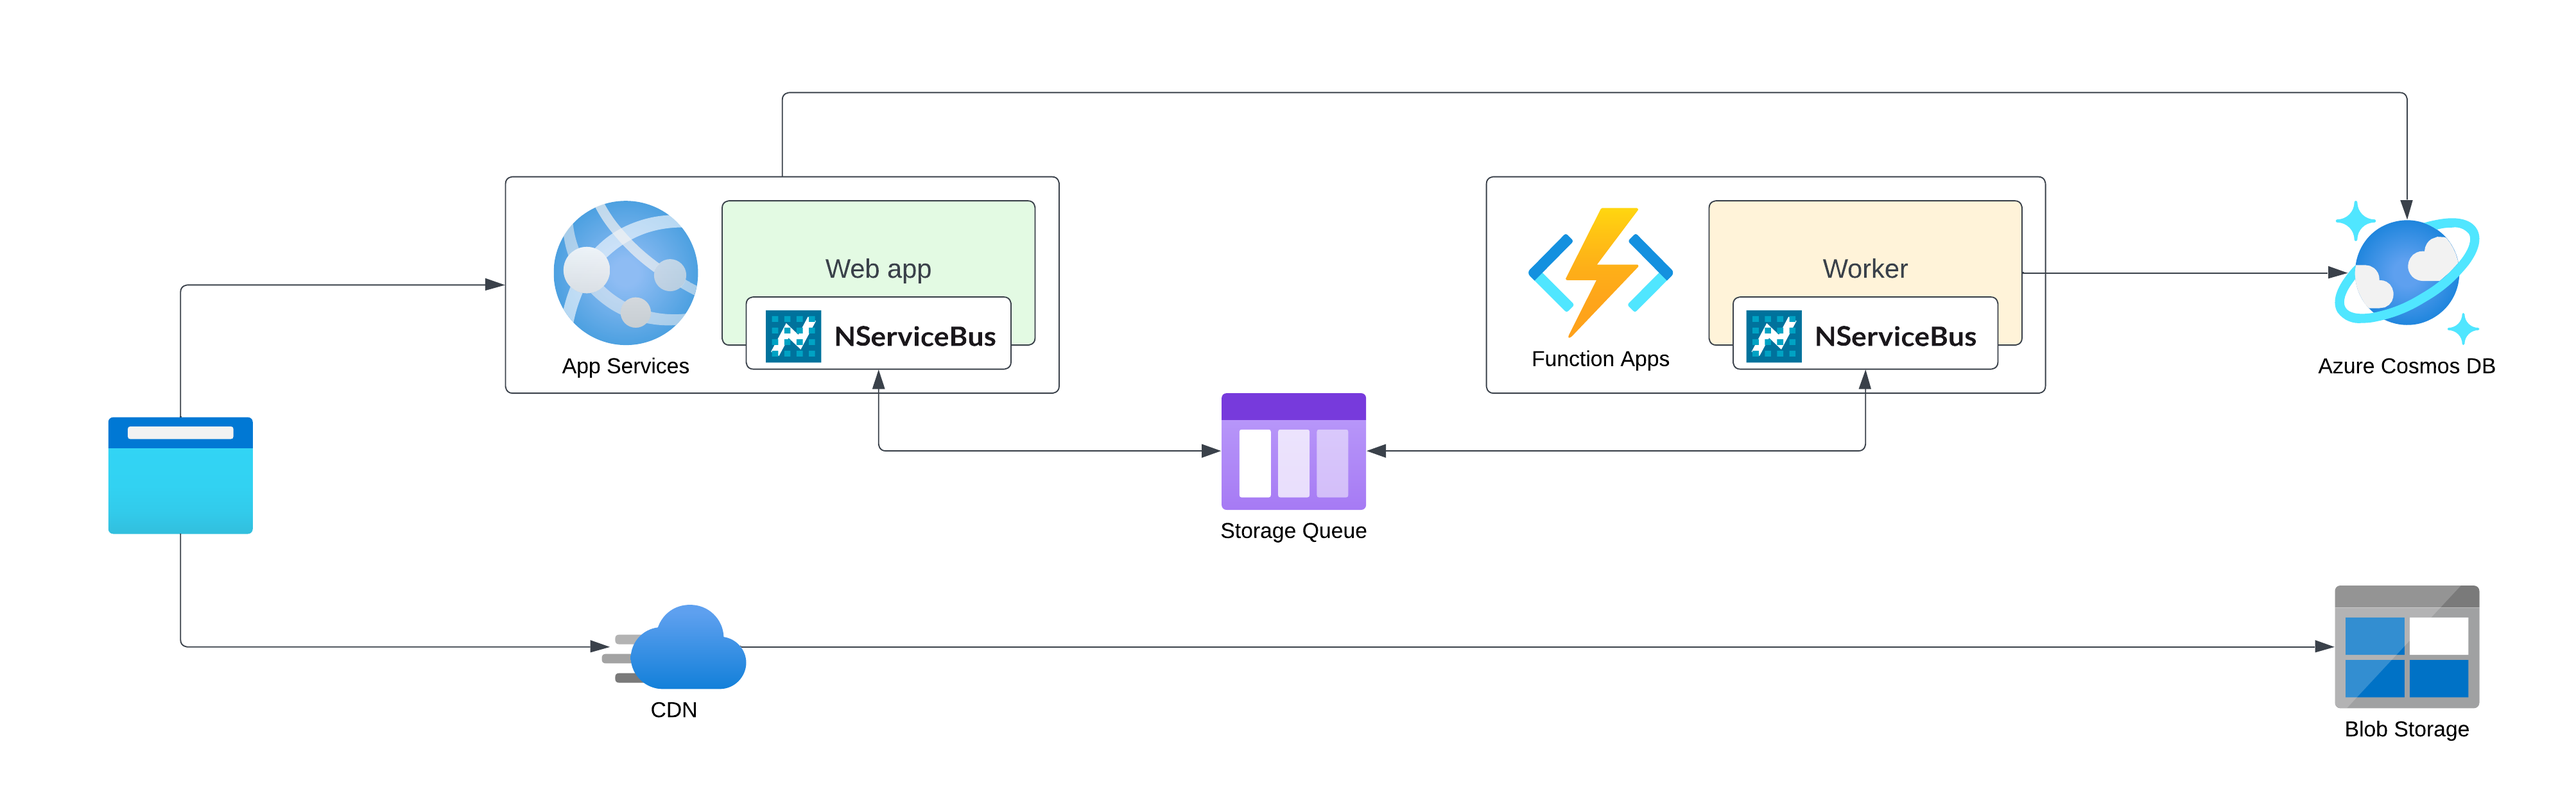
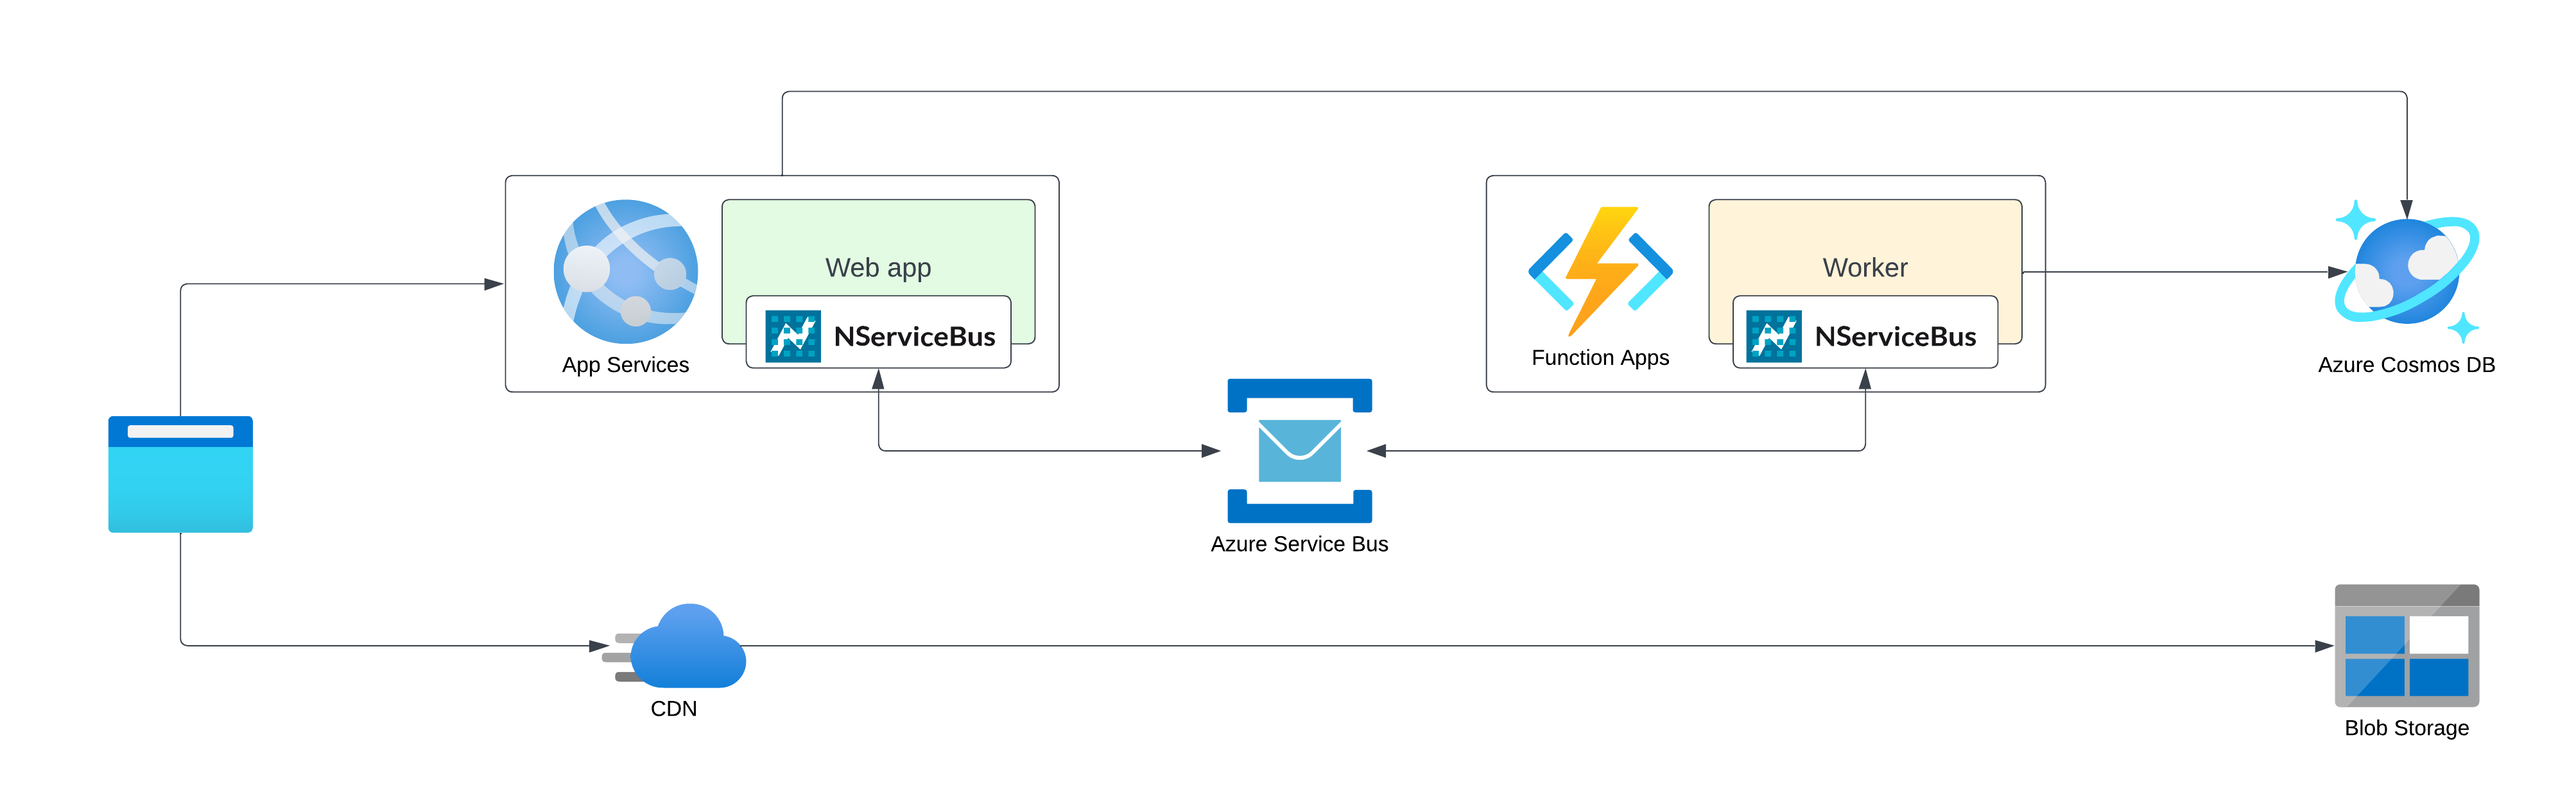
more review suggestions

diff --git a/architecture/azure/index.md b/architecture/azure/index.md
@@ -46,6 +46,7 @@ The Particular Service Platform makes systems follow the [ten design principles 
 * [Coordination is minimized](https://learn.microsoft.com/en-us/azure/architecture/guide/design-principles/minimize-coordination) between services by [messaging](/architecture/messaging.md). See [this talk](https://www.youtube.com/watch?v=0TYbHVc2yWI) for more information.
 * [Scaling out](https://learn.microsoft.com/en-us/azure/architecture/guide/design-principles/scale-out) is achieved by various methods such as [asynchronous message-based communication](https://learn.microsoft.com/en-us/dotnet/architecture/microservices/architect-microservice-container-applications/asynchronous-message-based-communication) and [competing consumers](/nservicebus/scaling.md#scaling-out-to-multiple-nodes-competing-consumers).
 * [Partitioning](https://learn.microsoft.com/en-us/azure/architecture/guide/design-principles/partition) is achieved by decomposing and offloading resource-intensive processes using [workflows](/architecture/workflows.md) and the integration of the Particular Service Platform with technology-specific partitioning capabilities.
+* [Partitioning](https://learn.microsoft.com/en-us/azure/architecture/guide/design-principles/partition) is achieved by making [suitable technology choices](/architecture/azure/#technology-choices). NServiceBus directly supports and integrates with a range of Azure services that can leverage partitioning for large-scale systems.
 * [Operations](https://learn.microsoft.com/en-us/azure/architecture/guide/design-principles/design-for-operations) tooling for monitoring production environments and error recovery is provided by [ServicePulse](/servicepulse/) and [OpenTelemetry](/nservicebus/operations/opentelemetry.md).
 * [Managed services](https://learn.microsoft.com/en-us/azure/architecture/guide/design-principles/managed-services) such as Azure App Service, Azure SQL, and Azure Cosmos DB are fully supported by the Particular Service Platform. See [technology choices](#technology-choices).
 * [A wide variety of data stores](https://learn.microsoft.com/en-us/azure/architecture/guide/design-principles/use-best-data-store) are supported by the Particular Service Platform as [persistence choices](/persistence).

diff --git a/architecture/azure/web-queue-worker.md b/architecture/azure/web-queue-worker.md
@@ -24,7 +24,7 @@ The Azure Architecture Center describes the [web-queue-worker architecture style
 
 ### Technology choices
 
-The web-queue-worker architecture style can make use of Azure's managed services like [Azure App Services](/architecture/azure/compute.md#platform-as-a-service-azure-app-services) and [Azure Functions](/architecture/azure/compute.md#platform-as-a-service-azure-app-services) and [Cosmos DB](/architecture/azure/data-stores.md#azure-cosmos-db). [Azure Service Bus](/architecture/azure/messaging.md#azure-service-bus) is powerful messaging technology choice, in simple scenarios [Azure Queue Storage](/architecture/azure/messaging.md#azure-queue-storage) might provide a more lightweight and cheaper option. When relying on a Infrastructure-as-a-Service model, web-queue-worker architectures might provide fewer benefits.
+The web-queue-worker architecture style can make use of Azure's managed services like [Azure App Services](/architecture/azure/compute.md#platform-as-a-service-azure-app-services), [Azure Static Web Apps](https://azure.microsoft.com/en-us/products/app-service/static), [Azure Functions](/architecture/azure/compute.md#platform-as-a-service-azure-app-services), and [Cosmos DB](/architecture/azure/data-stores.md#azure-cosmos-db). [Azure Service Bus](/architecture/azure/messaging.md#azure-service-bus) is powerful messaging technology choice. When relying on a Infrastructure-as-a-Service model, web-queue-worker architectures might provide fewer benefits.
 
 ## Related content
 

diff --git a/architecture/azure/compute.md b/architecture/azure/compute.md
@@ -38,12 +38,6 @@ In serverless (also referred to as "Functions as a service (FaaS)") models, code
 
 [**Host NServiceBus applications in docker containers →**](/nservicebus/hosting/docker-host/)
 
-### Service Fabric
-
-[Azure Service Fabric](https://azure.microsoft.com/en-us/products/service-fabric/) is a distributed systems platform built by Microsoft, designed for development, deployment, and management of microservices and containerized applications. It handles the intricacies of partitioning, scaling, and maintaining these applications, supporting stateful and stateless services with built-in load balancing and resilience. It's particularly useful for crafting applications that demand high availability, low latency, and streamlined updates, and it can be used both in cloud environments like Azure and in on-premises environments.
-
-[**Host NServiceBus applications in Azure Service Fabric →**](/nservicebus/hosting/service-fabric-hosting/)
-
 ## Infrastructure as a Service
 
 _Infrastructure as a Service_ (IaaS) Provides virtualized computing resources like virtual machines, storage, and networking that can be used to build and manage the required infrastructure.
